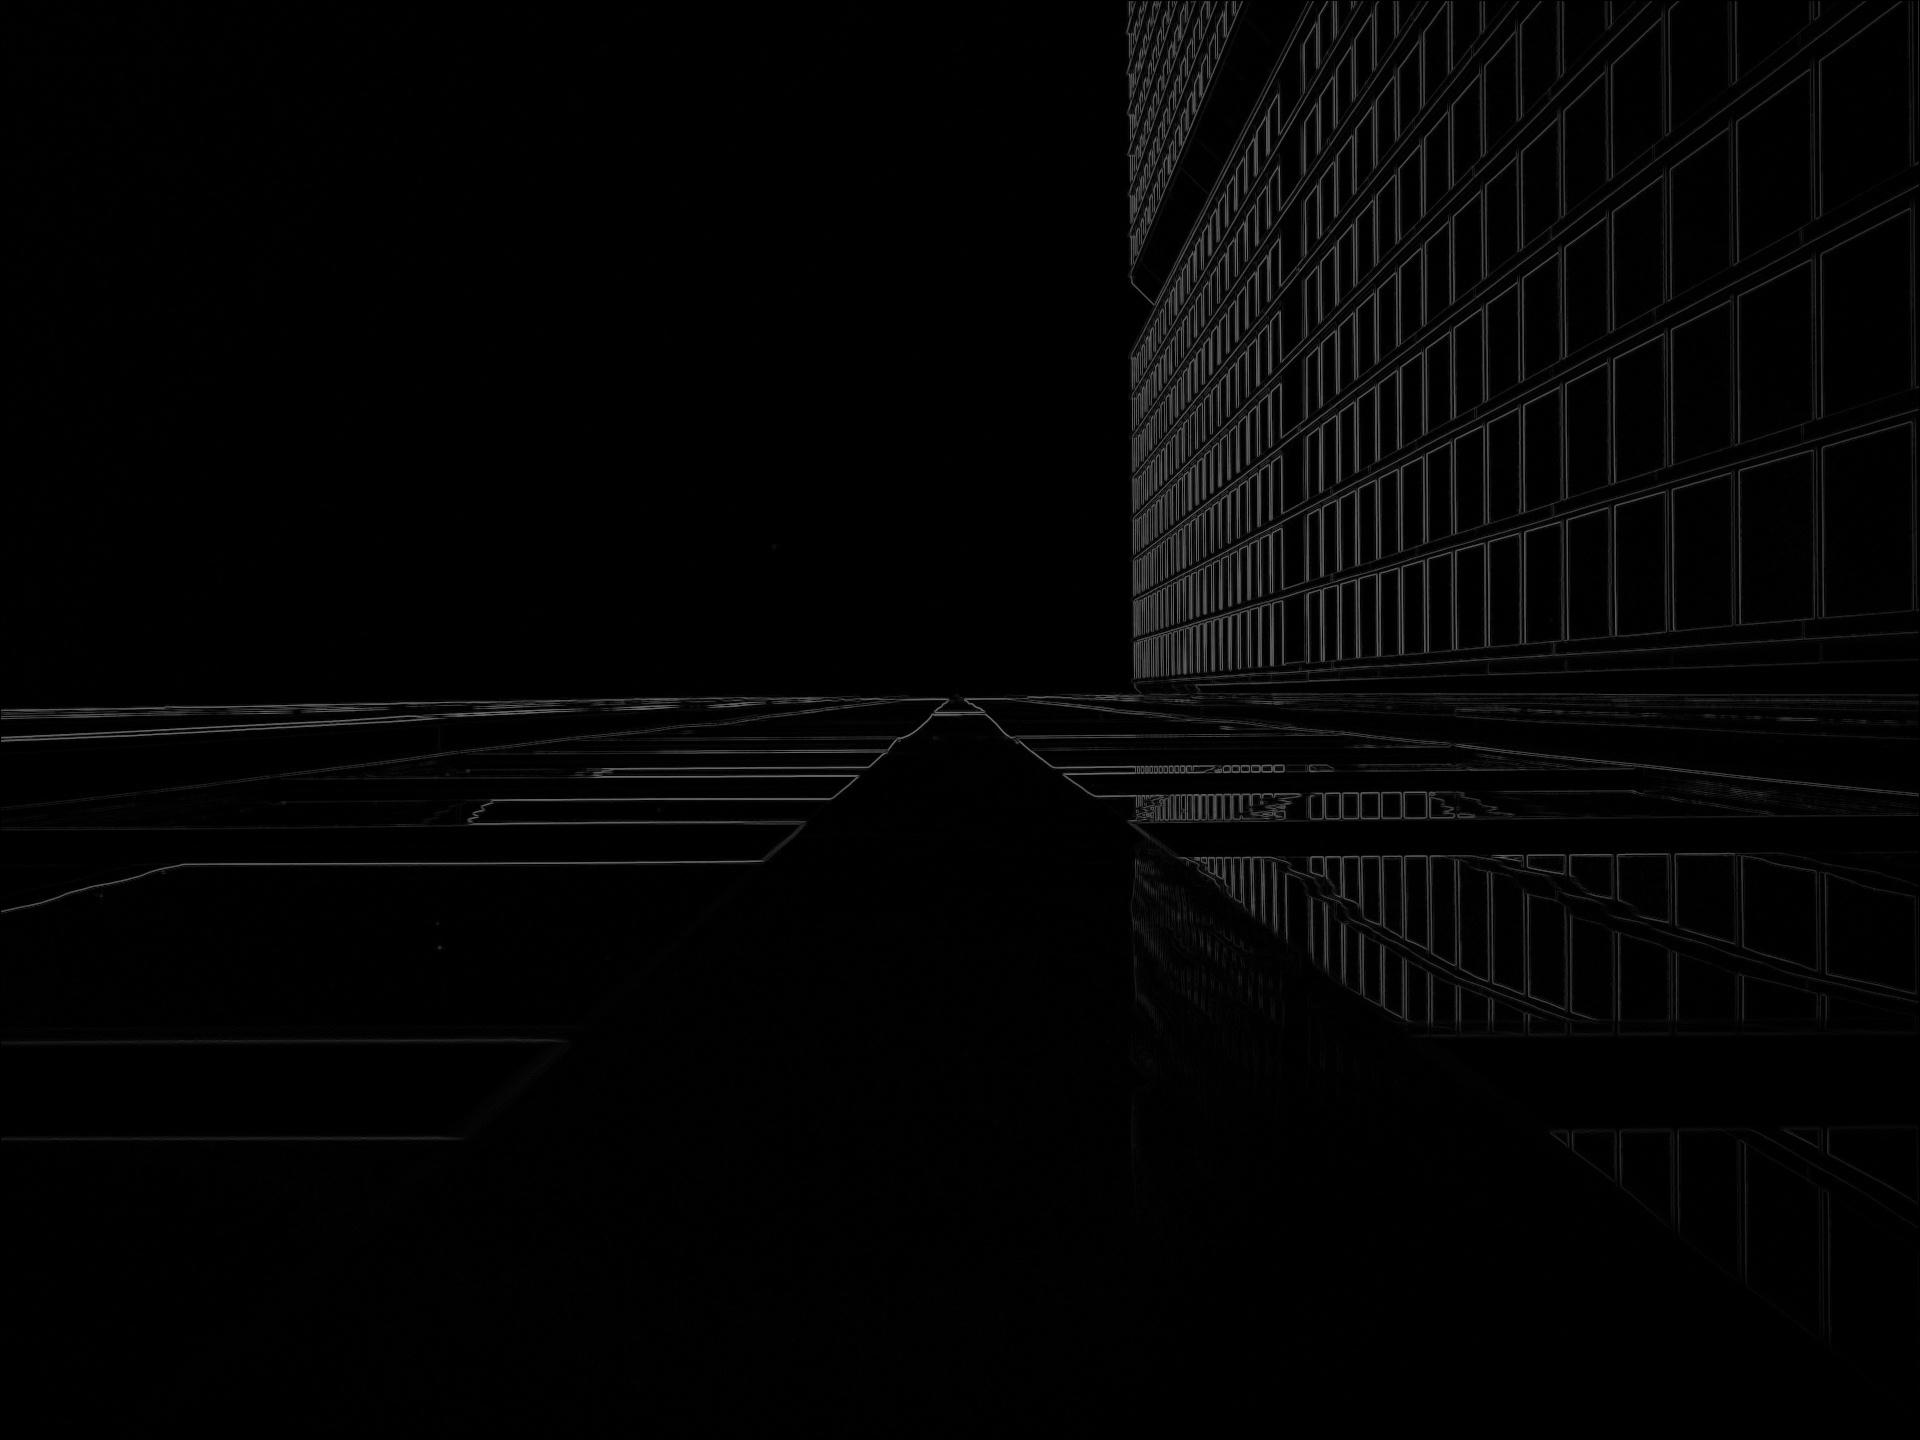
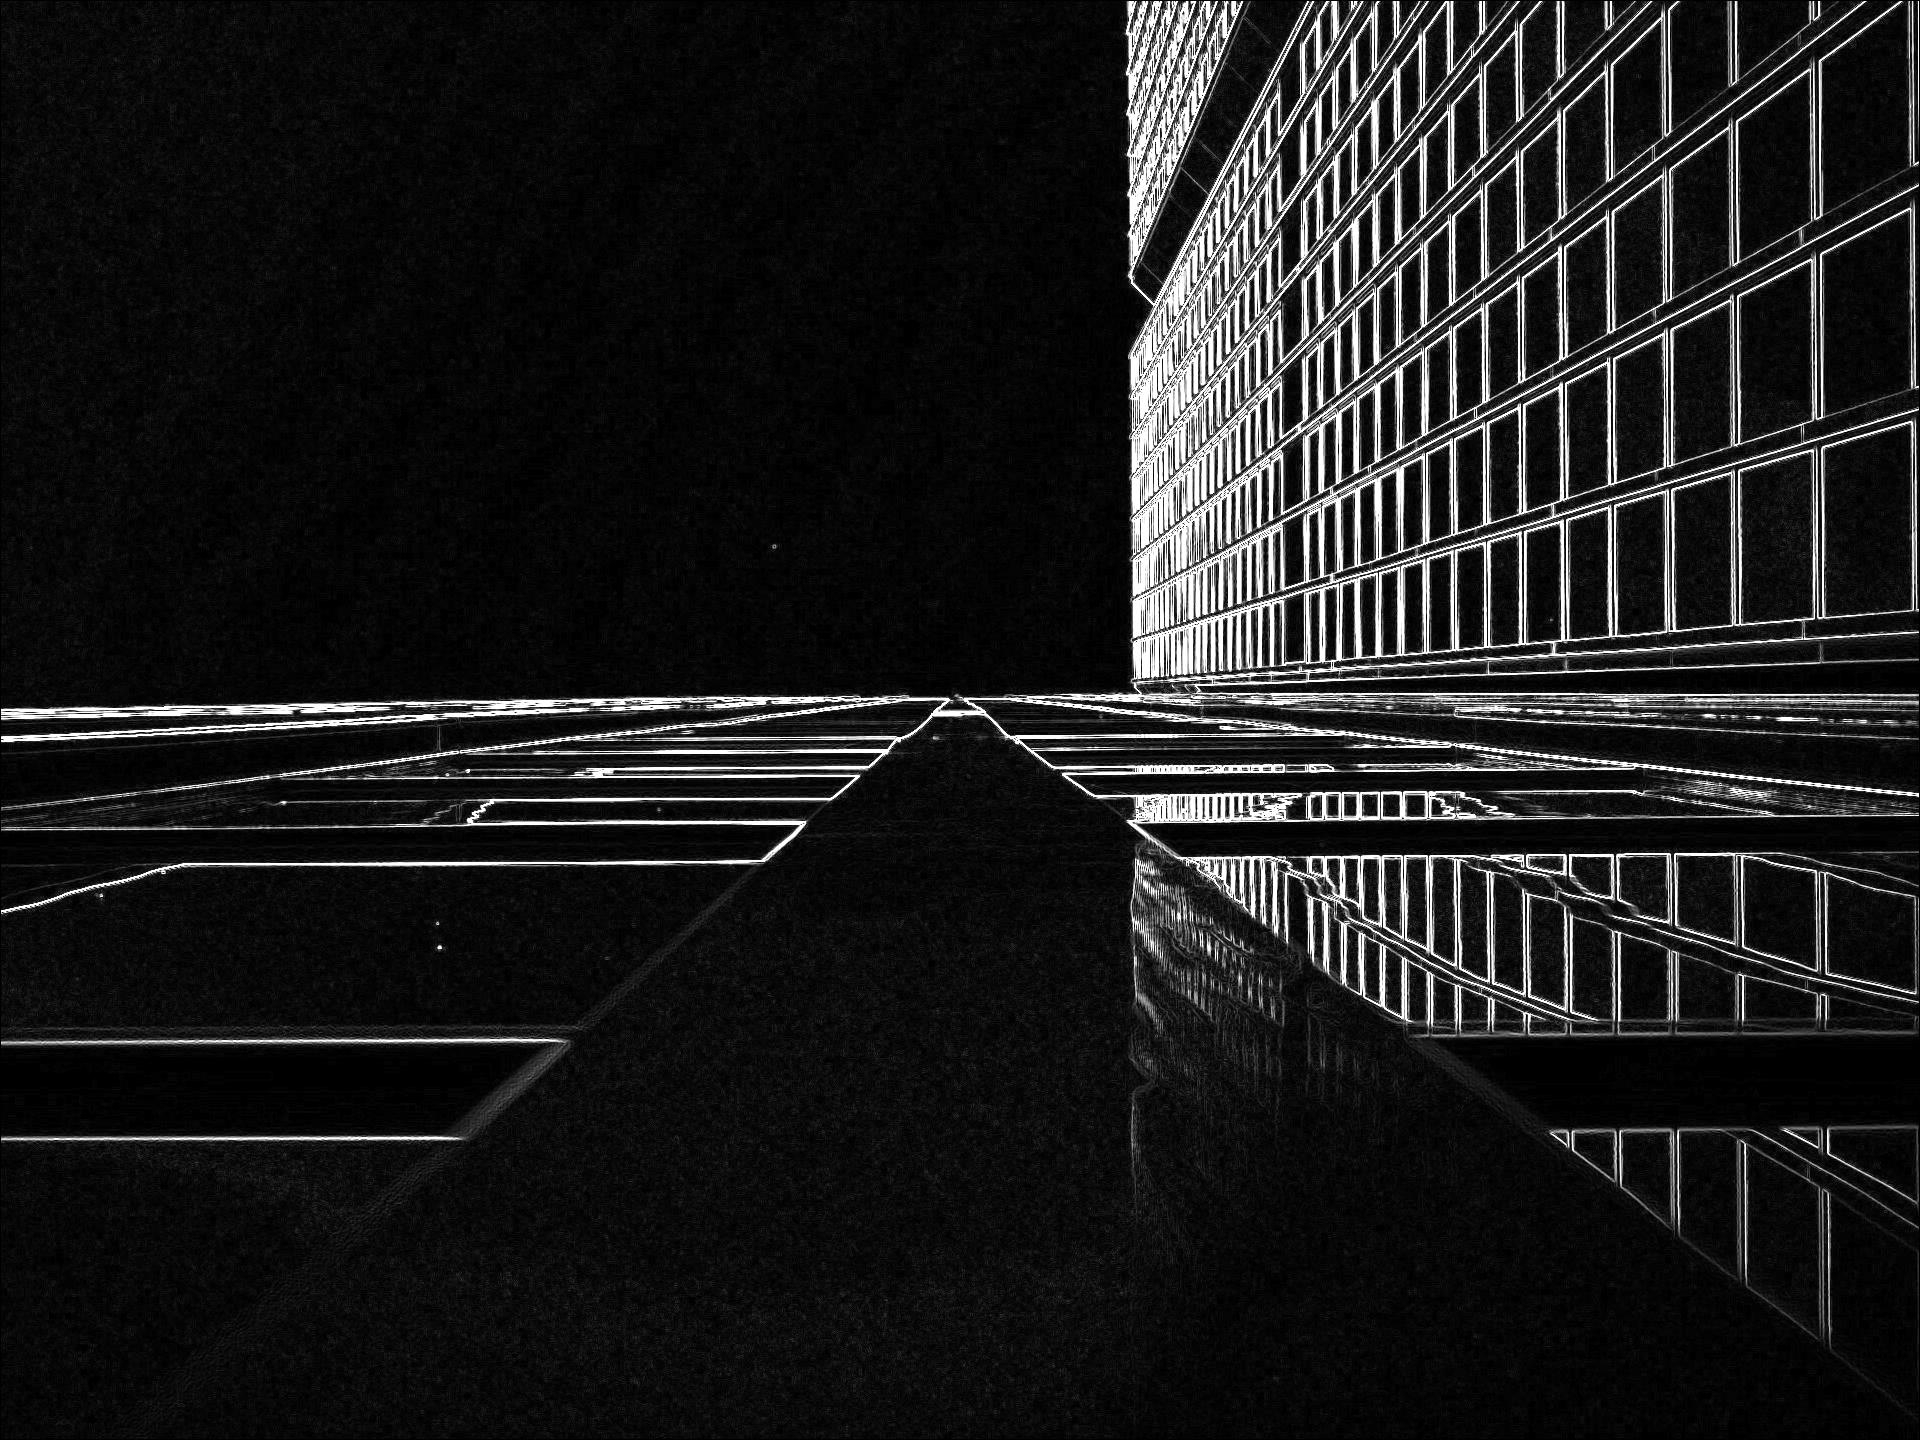
open cv function

diff --git a/w1_sobel/src/main.rs b/w1_sobel/src/main.rs
@@ -1,6 +1,4 @@
 use image::{io::Reader as ImageReader, ImageBuffer, Luma};
-use itertools::Itertools;
-use rayon::prelude::*;
 use std::{env, time::Instant};
 
 const SOBEL_X: [[f64; 3]; 3] = [[-1.0, -2.0, -1.0], [0.0, 0.0, 0.0], [1.0, 2.0, 1.0]];
@@ -30,24 +28,6 @@ fn main() {
         print_elapsed(&timer, "    Sobel done");
         output.save(output_image_path(&image_path)).unwrap();
     }
-    return;
-    // let img = ImageReader::open(image_file_path)
-    //     .unwrap()
-    //     .decode()
-    //     .unwrap()
-    //     .grayscale()
-    //     .to_luma8();
-
-    // let timer = Instant::now();
-
-    // let sobel_x: [[f64; 3]; 3] = [[-1.0, -2.0, -1.0], [0.0, 0.0, 0.0], [1.0, 2.0, 1.0]];
-    // let sobel_y: [[f64; 3]; 3] = [[-1.0, -2.0, -1.0], [0.0, 0.0, 0.0], [1.0, 2.0, 1.0]];
-    // println!("Operations start");
-
-    // let output = conv_3x3_with_sqrt(img, vec![sobel_x, sobel_y]);
-
-    // print_elapsed(&timer, "Operations done");
-    // output.save("output.jpg").unwrap();
 }
 
 fn sobel(img: &ImageBuffer<Luma<u8>, Vec<u8>>) -> ImageBuffer<Luma<u8>, Vec<u8>> {
@@ -75,7 +55,7 @@ fn conv_3x3(
             let p7 = img.get_pixel(x + 1, y - 1).0[0] as f64 * mask[2][0];
             let p8 = img.get_pixel(x + 1, y).0[0] as f64 * mask[2][1];
             let p9 = img.get_pixel(x + 1, y + 1).0[0] as f64 * mask[2][2];
-            let val: u8 = ((p1 + p2 + p3 + p4 + p5 + p6 + p7 + p8 + p9) / 9.0).abs() as u8;
+            let val: u8 = (p1 + p2 + p3 + p4 + p5 + p6 + p7 + p8 + p9).abs() as u8;
             output.put_pixel(x, y, Luma([val]));
         }
     }
@@ -95,7 +75,7 @@ fn add_images(
             let p1 = img1.get_pixel(x, y).0[0] as f64;
             let p2 = img2.get_pixel(x, y).0[0] as f64;
 
-            let val = (p1 * p1 + p2 * p2).sqrt();
+            let val = p1 + p2; //(p1 * p1 + p2 * p2).sqrt();
 
             output.put_pixel(x, y, Luma([val as u8]));
         }

diff --git a/w1_sobel/using_open_cv.py b/w1_sobel/using_open_cv.py
@@ -1,0 +1,22 @@
+# pip install numpy
+# pip install opencv-python
+import cv2
+import time
+
+img = cv2.imread("img/lizard.jpg")
+
+
+img = cv2.cvtColor(img, cv2.COLOR_BGR2GRAY)
+# sobelx = cv2.Sobel(img,cv2.CV_64F,1,0,ksize=3)  # x
+# sobely = cv2.Sobel(img,cv2.CV_64F,0,1,ksize=3)  # y
+
+start = time.time()
+print("hello")
+
+gx = cv2.Sobel(img, cv2.CV_32F, 1, 0)
+gy = cv2.Sobel(img, cv2.CV_32F, 0, 1)
+sobel_img = gx + gy
+
+end = time.time()
+print(f"total time: {end - start}")
+cv2.imwrite("img/lizard_cv.jpg", sobel_img)

diff --git a/w1_sobel/index.py b/w1_sobel/index.py
@@ -1,5 +1,8 @@
+# python index.py img/lizard.jpg
+
 import subprocess
-import sys 
+import sys
+
 
 def generate_sobel_image(image_path):
     subprocess.run(["target/release/w1_sobel.exe", image_path])
